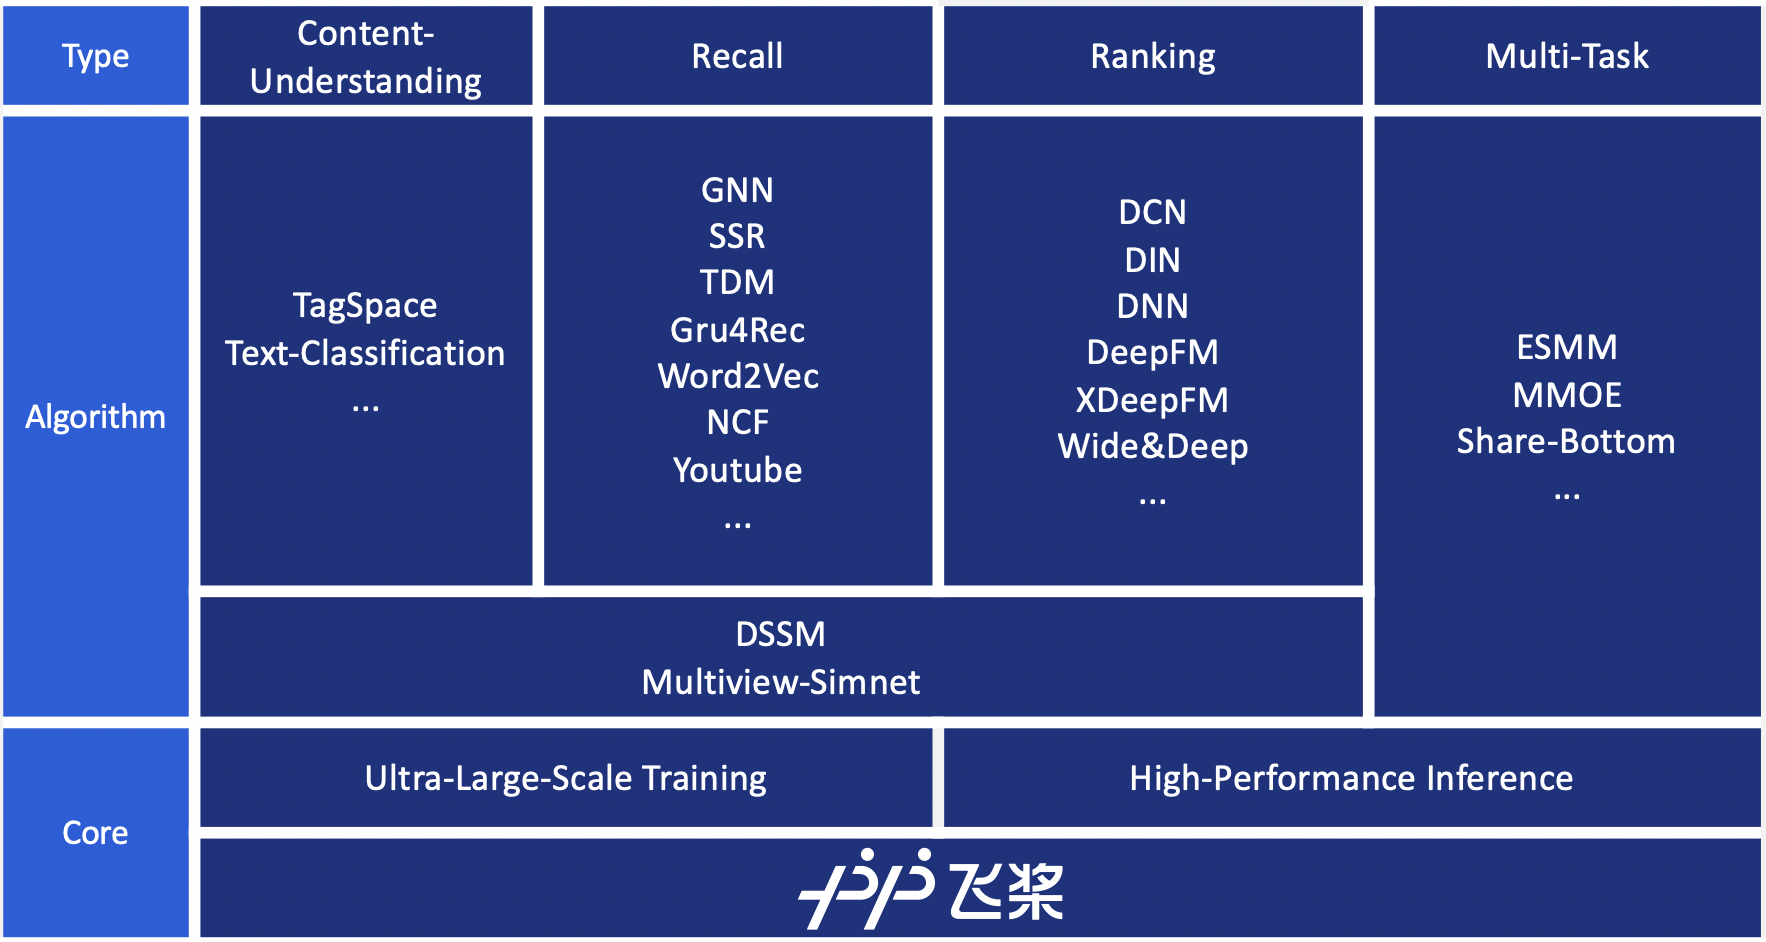
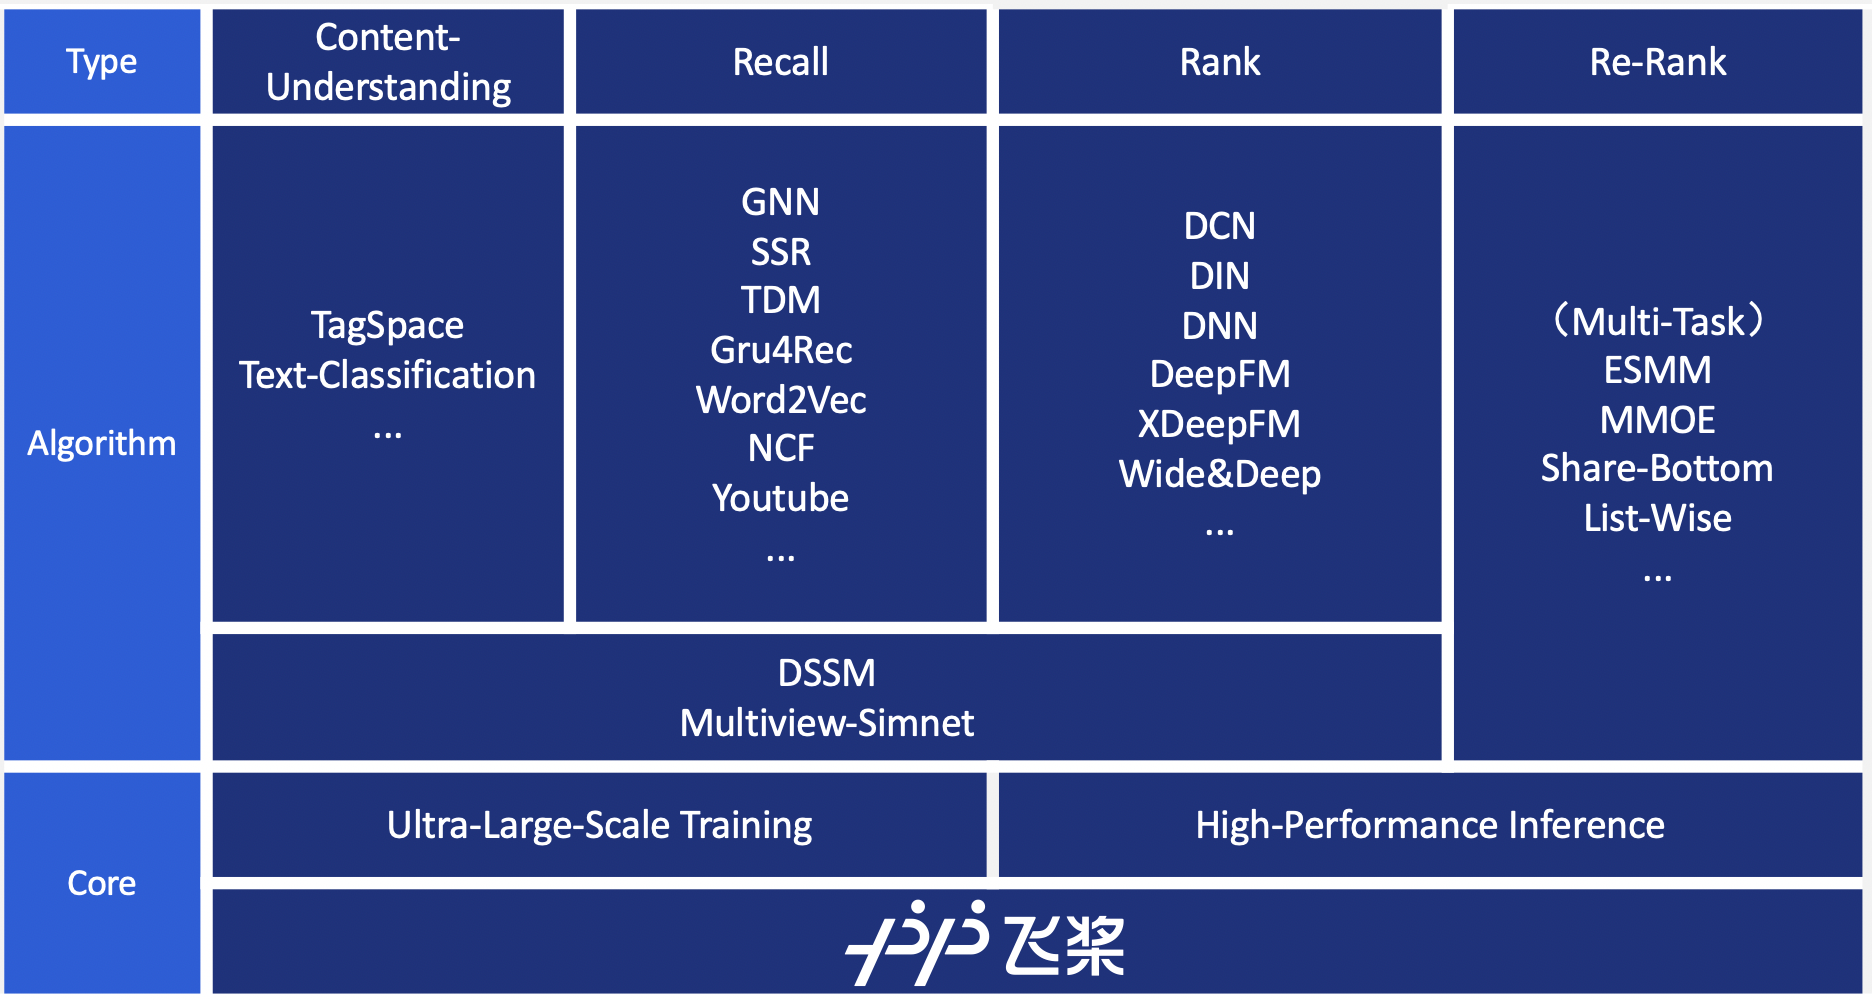
fix

diff --git a/README_en.md b/README_en.md
@@ -12,28 +12,28 @@
 <img align="center" src="doc/imgs/rec-overview-en.png">
 <p>
 
-- Recommendation system is the key to help users get useful infomation from big data.
+- Recommendation system helps users quickly find useful and interesting information from massive data.
 
-- Recommendation system is also a silver bullet to attract users, retain users, increase user stickiness and improve user conversion.
+- Recommendation system is also a silver bullet to attract users, retain users, increase users stickiness and improve users conversion.
 
   > Who can better use the recommendation system, who can gain more advantage in the fierce competition.
   >
-  > At the same time, there are many problems in the process of using the recommendation system, such as: huge data volume, complex model structure, inefficient distributed training environment, demanding online deployment requirements, and so on.
+  > At the same time, there are many problems in the process of using the recommendation system, such as: huge data, complex model, inefficient distributed training, and so on.
 
 <h2 align="center">What is PaddleRec ?</h2>
 
 
 - A quick start tool of search & recommendation algorithm based on [PaddlePaddle](https://www.paddlepaddle.org.cn/documentation/docs/en/beginners_guide/index_en.html)
 - The complete solution of recommendation system for beginners, developers and researchers
-- Recommendation algorithm library including content-understanding, matching, recall, ranking, multi-task, re-rank etc.
+- Recommendation algorithm library including content-understanding, matching, recall, rank, multi-task, re-rank etc.
 
 
     |         Type          |                                 Algorithm                                 |  CPU  |   GPU   | Parameter-Server | Multi-GPU | Paper                                                                                                                                                                                                       |
     | :-------------------: | :-----------------------------------------------------------------------: | :---: | :-----: | :--------------: | :-------: | :---------------------------------------------------------------------------------------------------------------------------------------------------------------------------------------------------------- |
     | Content-Understanding | [Text-Classifcation](models/contentunderstanding/classification/model.py) |   ✓   |    ✓    |        ✓         |     x     | [EMNLP 2014][Convolutional neural networks for sentence classication](https://www.aclweb.org/anthology/D14-1181.pdf)                                                                                        |
     | Content-Understanding |         [TagSpace](models/contentunderstanding/tagspace/model.py)         |   ✓   |    ✓    |        ✓         |     x     | [EMNLP 2014][TagSpace: Semantic Embeddings from Hashtags](https://www.aclweb.org/anthology/D14-1194.pdf)                                                                                                    |
-    |       Matching        |                    [DSSM](models/match/dssm/model.py)                     |   ✓   |    ✓    |        ✓         |     x     | [CIKM 2013][Learning Deep Structured Semantic Models for Web Search using Clickthrough Data](https://www.microsoft.com/en-us/research/wp-content/uploads/2016/02/cikm2013_DSSM_fullversion.pdf)             |
-    |       Matching        |        [MultiView-Simnet](models/match/multiview-simnet/model.py)         |   ✓   |    ✓    |        ✓         |     x     | [WWW 2015][A Multi-View Deep Learning Approach for Cross Domain User Modeling in Recommendation Systems](https://www.microsoft.com/en-us/research/wp-content/uploads/2016/02/frp1159-songA.pdf)             |
+    |         Match         |                    [DSSM](models/match/dssm/model.py)                     |   ✓   |    ✓    |        ✓         |     x     | [CIKM 2013][Learning Deep Structured Semantic Models for Web Search using Clickthrough Data](https://www.microsoft.com/en-us/research/wp-content/uploads/2016/02/cikm2013_DSSM_fullversion.pdf)             |
+    |         Match         |        [MultiView-Simnet](models/match/multiview-simnet/model.py)         |   ✓   |    ✓    |        ✓         |     x     | [WWW 2015][A Multi-View Deep Learning Approach for Cross Domain User Modeling in Recommendation Systems](https://www.microsoft.com/en-us/research/wp-content/uploads/2016/02/frp1159-songA.pdf)             |
     |        Recall         |                   [TDM](models/treebased/tdm/model.py)                    |   ✓   | >=1.8.0 |        ✓         |  >=1.8.0  | [KDD 2018][Learning Tree-based Deep Model for Recommender Systems](https://arxiv.org/pdf/1801.02294.pdf)                                                                                                    |
     |        Recall         |                [fasttext](models/recall/fasttext/model.py)                |   ✓   |    ✓    |        x         |     x     | [EACL 2017][Bag of Tricks for Efficient Text Classification](https://www.aclweb.org/anthology/E17-2068.pdf)                                                                                                 |
     |        Recall         |                [Word2Vec](models/recall/word2vec/model.py)                |   ✓   |    ✓    |        ✓         |     x     | [NIPS 2013][Distributed Representations of Words and Phrases and their Compositionality](https://papers.nips.cc/paper/5021-distributed-representations-of-words-and-phrases-and-their-compositionality.pdf) |
@@ -42,22 +42,22 @@
     |        Recall         |             [Youtube_dnn](models/recall/youtube_dnn/model.py)             |   ✓   |    ✓    |        ✓         |     ✓     | [RecSys 2016][Deep Neural Networks for YouTube Recommendations](https://static.googleusercontent.com/media/research.google.com/zh-CN//pubs/archive/45530.pdf)                                               |
     |        Recall         |                     [NCF](models/recall/ncf/model.py)                     |   ✓   |    ✓    |        ✓         |     ✓     | [WWW 2017][Neural Collaborative Filtering](https://arxiv.org/pdf/1708.05031.pdf)                                                                                                                            |
     |        Recall         |                     [GNN](models/recall/gnn/model.py)                     |   ✓   |    ✓    |        ✓         |     ✓     | [AAAI 2019][Session-based Recommendation with Graph Neural Networks](https://arxiv.org/abs/1811.00855)                                                                                                      |
-    |        Ranking        |      [Logistic Regression](models/rank/logistic_regression/model.py)      |   ✓   |    x    |        ✓         |     x     | /                                                                                                                                                                                                           |
-    |        Ranking        |                      [Dnn](models/rank/dnn/model.py)                      |   ✓   |    ✓    |        ✓         |     ✓     | /                                                                                                                                                                                                           |
-    |        Ranking        |                       [FM](models/rank/fm/model.py)                       |   ✓   |    x    |        ✓         |     x     | [IEEE Data Mining 2010][Factorization machines](https://analyticsconsultores.com.mx/wp-content/uploads/2019/03/Factorization-Machines-Steffen-Rendle-Osaka-University-2010.pdf)                             |
-    |        Ranking        |                      [FFM](models/rank/ffm/model.py)                      |   ✓   |    x    |        ✓         |     x     | [RECSYS 2016][Field-aware Factorization Machines for CTR Prediction](https://dl.acm.org/doi/pdf/10.1145/2959100.2959134)                                                                                    |
-    |        Ranking        |                      [FNN](models/rank/fnn/model.py)                      |   ✓   |    x    |        ✓         |     x     | [ECIR 2016][Deep Learning over Multi-field Categorical Data](https://arxiv.org/pdf/1601.02376.pdf)                                                                                                          |
-    |        Ranking        |            [Deep Crossing](models/rank/deep_crossing/model.py)            |   ✓   |    x    |        ✓         |     x     | [ACM 2016][Deep Crossing: Web-Scale Modeling without Manually Crafted Combinatorial Features](https://www.kdd.org/kdd2016/papers/files/adf0975-shanA.pdf)                                                   |
-    |        Ranking        |                      [Pnn](models/rank/pnn/model.py)                      |   ✓   |    x    |        ✓         |     x     | [ICDM 2016][Product-based Neural Networks for User Response Prediction](https://arxiv.org/pdf/1611.00144.pdf)                                                                                               |
-    |        Ranking        |                      [DCN](models/rank/dcn/model.py)                      |   ✓   |    x    |        ✓         |     x     | [KDD 2017][Deep & Cross Network for Ad Click Predictions](https://dl.acm.org/doi/pdf/10.1145/3124749.3124754)                                                                                               |
-    |        Ranking        |                      [NFM](models/rank/nfm/model.py)                      |   ✓   |    x    |        ✓         |     x     | [SIGIR 2017][Neural Factorization Machines for Sparse Predictive Analytics](https://dl.acm.org/doi/pdf/10.1145/3077136.3080777)                                                                             |
-    |        Ranking        |                      [AFM](models/rank/afm/model.py)                      |   ✓   |    x    |        ✓         |     x     | [IJCAI 2017][Attentional Factorization Machines: Learning the Weight of Feature Interactions via Attention Networks](https://arxiv.org/pdf/1708.04617.pdf)                                                  |
-    |        Ranking        |                   [DeepFM](models/rank/deepfm/model.py)                   |   ✓   |    x    |        ✓         |     x     | [IJCAI 2017][DeepFM: A Factorization-Machine based Neural Network for CTR Prediction](https://arxiv.org/pdf/1703.04247.pdf)                                                                                 |
-    |        Ranking        |                  [xDeepFM](models/rank/xdeepfm/model.py)                  |   ✓   |    x    |        ✓         |     x     | [KDD 2018][xDeepFM: Combining Explicit and Implicit Feature Interactions for Recommender Systems](https://dl.acm.org/doi/pdf/10.1145/3219819.3220023)                                                       |
-    |        Ranking        |                      [DIN](models/rank/din/model.py)                      |   ✓   |    x    |        ✓         |     x     | [KDD 2018][Deep Interest Network for Click-Through Rate Prediction](https://dl.acm.org/doi/pdf/10.1145/3219819.3219823)                                                                                     |
-    |        Ranking        |                [Wide&Deep](models/rank/wide_deep/model.py)                |   ✓   |    x    |        ✓         |     x     | [DLRS 2016][Wide & Deep Learning for Recommender Systems](https://dl.acm.org/doi/pdf/10.1145/2988450.2988454)                                                                                               |
-    |        Ranking        |                    [FGCNN](models/rank/fgcnn/model.py)                    |   ✓   |    ✓    |        ✓         |     ✓     | [WWW 2019][Feature Generation by Convolutional Neural Network for Click-Through Rate Prediction](https://arxiv.org/pdf/1904.04447.pdf)                                                                      |
-    |        Ranking        |                  [Fibinet](models/rank/fibinet/model.py)                  |   ✓   |    ✓    |        ✓         |     ✓     | [RecSys19][FiBiNET: Combining Feature Importance and Bilinear feature Interaction for Click-Through Rate Prediction]( https://arxiv.org/pdf/1905.09433.pdf)                                                 |
+    |         Rank          |      [Logistic Regression](models/rank/logistic_regression/model.py)      |   ✓   |    x    |        ✓         |     x     | /                                                                                                                                                                                                           |
+    |         Rank          |                      [Dnn](models/rank/dnn/model.py)                      |   ✓   |    ✓    |        ✓         |     ✓     | /                                                                                                                                                                                                           |
+    |         Rank          |                       [FM](models/rank/fm/model.py)                       |   ✓   |    x    |        ✓         |     x     | [IEEE Data Mining 2010][Factorization machines](https://analyticsconsultores.com.mx/wp-content/uploads/2019/03/Factorization-Machines-Steffen-Rendle-Osaka-University-2010.pdf)                             |
+    |         Rank          |                      [FFM](models/rank/ffm/model.py)                      |   ✓   |    x    |        ✓         |     x     | [RECSYS 2016][Field-aware Factorization Machines for CTR Prediction](https://dl.acm.org/doi/pdf/10.1145/2959100.2959134)                                                                                    |
+    |         Rank          |                      [FNN](models/rank/fnn/model.py)                      |   ✓   |    x    |        ✓         |     x     | [ECIR 2016][Deep Learning over Multi-field Categorical Data](https://arxiv.org/pdf/1601.02376.pdf)                                                                                                          |
+    |         Rank          |            [Deep Crossing](models/rank/deep_crossing/model.py)            |   ✓   |    x    |        ✓         |     x     | [ACM 2016][Deep Crossing: Web-Scale Modeling without Manually Crafted Combinatorial Features](https://www.kdd.org/kdd2016/papers/files/adf0975-shanA.pdf)                                                   |
+    |         Rank          |                      [Pnn](models/rank/pnn/model.py)                      |   ✓   |    x    |        ✓         |     x     | [ICDM 2016][Product-based Neural Networks for User Response Prediction](https://arxiv.org/pdf/1611.00144.pdf)                                                                                               |
+    |         Rank          |                      [DCN](models/rank/dcn/model.py)                      |   ✓   |    x    |        ✓         |     x     | [KDD 2017][Deep & Cross Network for Ad Click Predictions](https://dl.acm.org/doi/pdf/10.1145/3124749.3124754)                                                                                               |
+    |         Rank          |                      [NFM](models/rank/nfm/model.py)                      |   ✓   |    x    |        ✓         |     x     | [SIGIR 2017][Neural Factorization Machines for Sparse Predictive Analytics](https://dl.acm.org/doi/pdf/10.1145/3077136.3080777)                                                                             |
+    |         Rank          |                      [AFM](models/rank/afm/model.py)                      |   ✓   |    x    |        ✓         |     x     | [IJCAI 2017][Attentional Factorization Machines: Learning the Weight of Feature Interactions via Attention Networks](https://arxiv.org/pdf/1708.04617.pdf)                                                  |
+    |         Rank          |                   [DeepFM](models/rank/deepfm/model.py)                   |   ✓   |    x    |        ✓         |     x     | [IJCAI 2017][DeepFM: A Factorization-Machine based Neural Network for CTR Prediction](https://arxiv.org/pdf/1703.04247.pdf)                                                                                 |
+    |         Rank          |                  [xDeepFM](models/rank/xdeepfm/model.py)                  |   ✓   |    x    |        ✓         |     x     | [KDD 2018][xDeepFM: Combining Explicit and Implicit Feature Interactions for Recommender Systems](https://dl.acm.org/doi/pdf/10.1145/3219819.3220023)                                                       |
+    |         Rank          |                      [DIN](models/rank/din/model.py)                      |   ✓   |    x    |        ✓         |     x     | [KDD 2018][Deep Interest Network for Click-Through Rate Prediction](https://dl.acm.org/doi/pdf/10.1145/3219819.3219823)                                                                                     |
+    |         Rank          |                [Wide&Deep](models/rank/wide_deep/model.py)                |   ✓   |    x    |        ✓         |     x     | [DLRS 2016][Wide & Deep Learning for Recommender Systems](https://dl.acm.org/doi/pdf/10.1145/2988450.2988454)                                                                                               |
+    |         Rank          |                    [FGCNN](models/rank/fgcnn/model.py)                    |   ✓   |    ✓    |        ✓         |     ✓     | [WWW 2019][Feature Generation by Convolutional Neural Network for Click-Through Rate Prediction](https://arxiv.org/pdf/1904.04447.pdf)                                                                      |
+    |         Rank          |                  [Fibinet](models/rank/fibinet/model.py)                  |   ✓   |    ✓    |        ✓         |     ✓     | [RecSys19][FiBiNET: Combining Feature Importance and Bilinear feature Interaction for Click-Through Rate Prediction]( https://arxiv.org/pdf/1905.09433.pdf)                                                 |
     |      Multi-Task       |                  [ESMM](models/multitask/esmm/model.py)                   |   ✓   |    ✓    |        ✓         |     ✓     | [SIGIR 2018][Entire Space Multi-Task Model: An Effective Approach for Estimating Post-Click Conversion Rate](https://arxiv.org/abs/1804.07931)                                                              |
     |      Multi-Task       |                  [MMOE](models/multitask/mmoe/model.py)                   |   ✓   |    ✓    |        ✓         |     ✓     | [KDD 2018][Modeling Task Relationships in Multi-task Learning with Multi-gate Mixture-of-Experts](https://dl.acm.org/doi/abs/10.1145/3219819.3220007)                                                       |
     |      Multi-Task       |           [ShareBottom](models/multitask/share-bottom/model.py)           |   ✓   |    ✓    |        ✓         |     ✓     | [1998][Multitask learning](http://reports-archive.adm.cs.cmu.edu/anon/1997/CMU-CS-97-203.pdf)                                                                                                               |
